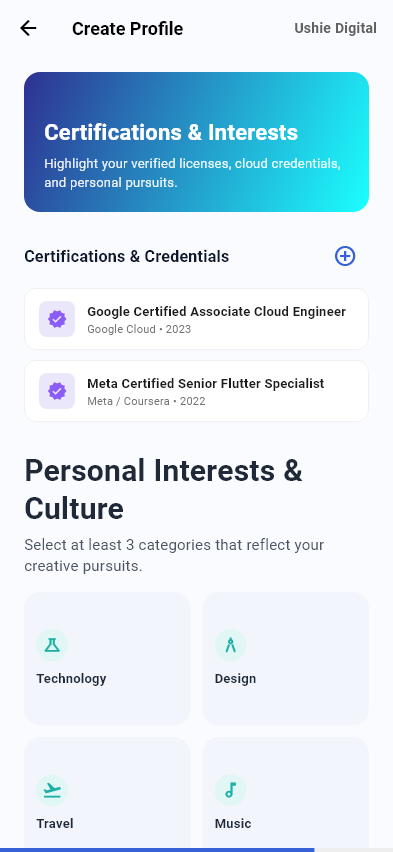
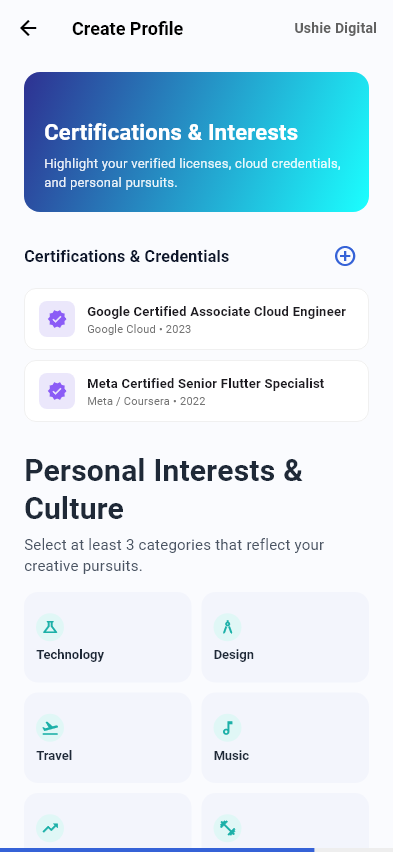
docs(readme): add compact card showcases

Changed region(s): [[0.0916, 0.7324, 0.2748, 0.9765], [0.5496, 0.7324, 0.6412, 0.9765]]

diff --git a/README.md b/README.md
@@ -84,26 +84,26 @@ The Settings view provides instant 1-click persona switching, real-time dark mod
 <table width="100%">
   <tr>
     <td align="center" width="50%">
-      <img src="images/view_step1.png" width="380" alt="Onboarding Step 1 - Plan Selection" style="border-radius: 14px;" /><br/><br/>
+      <img src="images/view_step1.png" width="380" alt="Onboarding Step 1 - Plan Selection" style="border-radius: 14px; box-shadow: 0 4px 14px rgba(0,0,0,0.12);" /><br/><br/>
       <b>Onboarding Step 1: Plan Selection</b><br/>
       <sub>Interactive dual-track choice between Personal Developer and Business Studio plans with 3D avatar carousel and 1-tap login sheet.</sub>
     </td>
     <td align="center" width="50%">
-      <img src="images/view_step4.png" width="380" alt="Onboarding Step 4 - Interests & Markets" style="border-radius: 14px;" /><br/><br/>
-      <b>Onboarding Step 4: Markets & Focus</b><br/>
-      <sub>Specialized interest tags for developers (Mobile, Cloud, AI) and enterprise target verticals for digital consultancies.</sub>
+      <img src="images/view_explore.png" width="380" alt="Explore View - Project Catalog" style="border-radius: 14px; box-shadow: 0 4px 14px rgba(0,0,0,0.12);" /><br/><br/>
+      <b>Interactive Project Showcase (<code>ExploreView</code>)</b><br/>
+      <sub>Categorized portfolio items, horizontal category chips, live interactive heart counters, and architecture inspection bottom sheets.</sub>
     </td>
   </tr>
   <tr>
     <td align="center" width="50%">
-      <img src="images/view_explore.png" width="380" alt="Explore View - Project Catalog" style="border-radius: 14px;" /><br/><br/>
-      <b>Interactive Project Showcase (<code>ExploreView</code>)</b><br/>
-      <sub>Categorized portfolio items, horizontal category chips, live interactive heart counters, and architecture inspection bottom sheets.</sub>
+      <img src="images/view_step4.png" width="380" alt="Onboarding Step 4 - Personal Interests (Compact Cards)" style="border-radius: 14px; box-shadow: 0 4px 14px rgba(0,0,0,0.12);" /><br/><br/>
+      <b>Onboarding Step 4: Personal Interests (Compact Cards)</b><br/>
+      <sub>Streamlined, compact category tiles (aspect ratio 1.85) featuring individual pursuits (Tech, Design, Travel, Music) with balanced vertical rhythm.</sub>
     </td>
     <td align="center" width="50%">
-      <img src="images/app_preview.png" width="380" alt="App Preview Asset" style="border-radius: 14px;" /><br/><br/>
-      <b>Primary Architecture Showcase</b><br/>
-      <sub>Production baseline verified through comprehensive automated golden rendering pipeline.</sub>
+      <img src="images/view_step4_business.png" width="380" alt="Onboarding Step 4 - Business Target Sectors (Compact Cards)" style="border-radius: 14px; box-shadow: 0 4px 14px rgba(0,0,0,0.12);" /><br/><br/>
+      <b>Onboarding Step 4: Target Sectors (Compact Cards)</b><br/>
+      <sub>Compact enterprise cards for digital consultancies (Enterprise Tech, FinTech, Healthcare, Real Estate) fitting cleanly within the viewport.</sub>
     </td>
   </tr>
 </table>
@@ -290,9 +290,10 @@ flutter analyze
 flutter test
 ```
 
-### Verified Test Suite (10 Golden Snapshots + 12 Unit Tests)
+### Verified Test Suite (11 Golden Snapshots + 12 Unit Tests)
 - `OnboardingView - Step 1 Plan Selection` (Golden) — **PASSED**
 - `OnboardingView - Step 4 Interest Selection` (Golden) — **PASSED**
+- `OnboardingView - Step 4 Target Industry Sectors (Business)` (Golden) — **PASSED**
 - `ExploreView - Project Showcase` (Golden) — **PASSED**
 - `HomeView - Personal Developer Dashboard (Light Mode)` (Golden) — **PASSED**
 - `HomeView - Personal Developer Dashboard (Dark Mode)` (Golden) — **PASSED**
